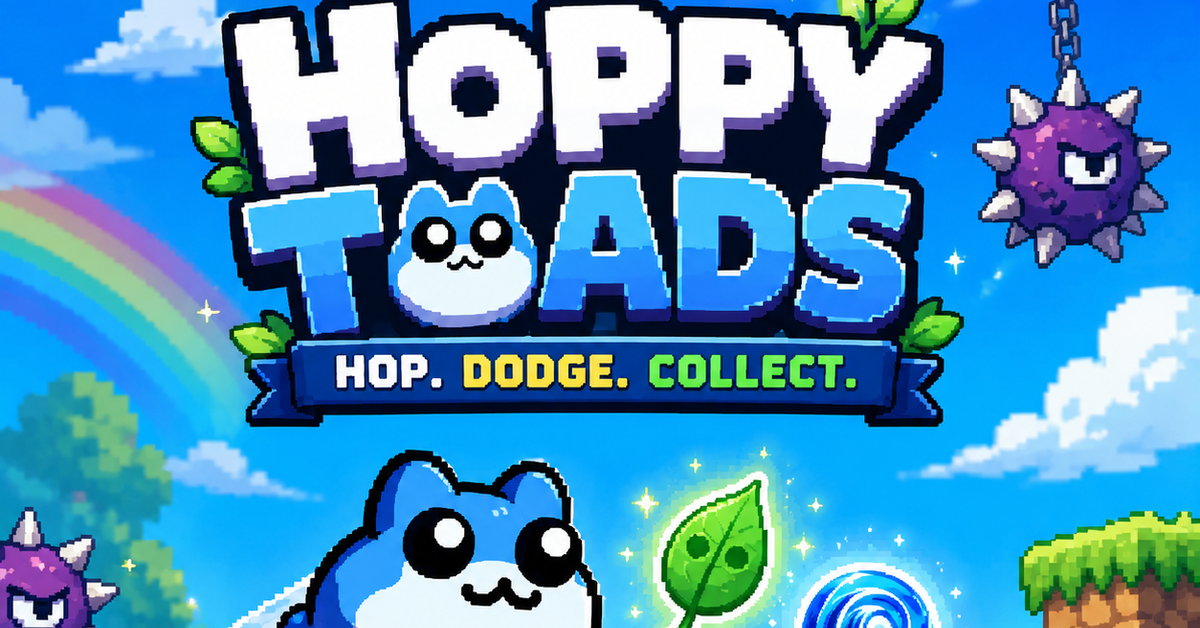
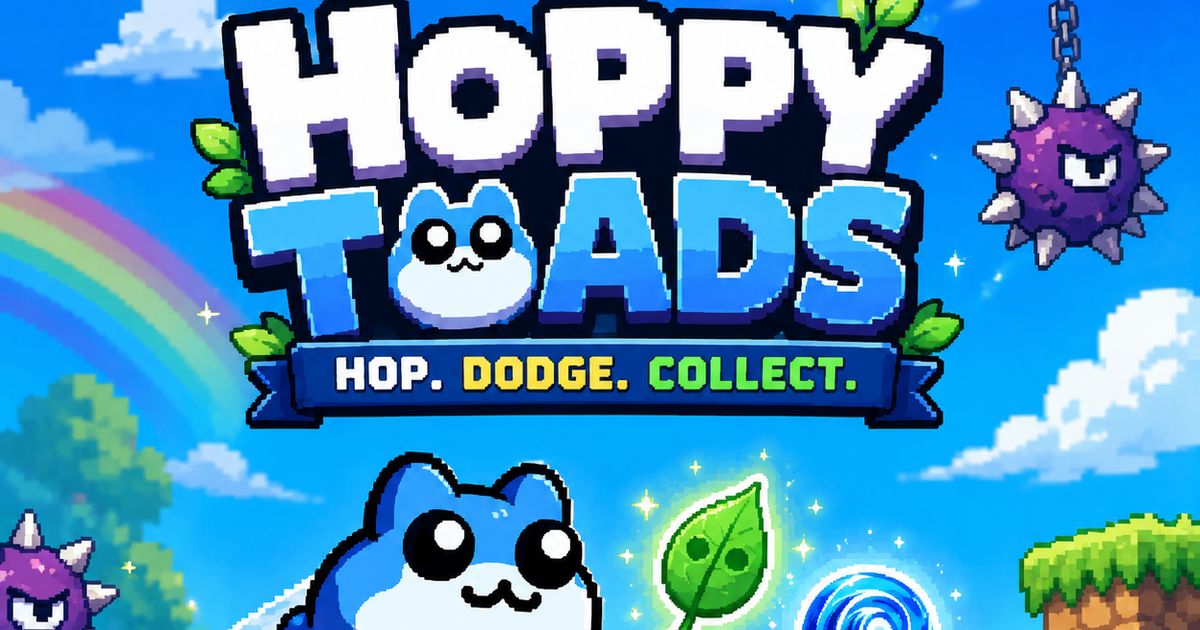
Align X card meta to working ToadVault/Pixel Pond recipe
Use one 1200x630 image (card.png) for both og:image and twitter:image, add
explicit og:image:width/height/type + og:site_name, and a ?v=2 cache-buster so X
re-crawls and renders the large card. fc:miniapp keeps hero.png (3:2) for Farcaster.

diff --git a/public/index.html b/public/index.html
@@ -5,17 +5,23 @@
 <meta name="viewport" content="width=device-width, initial-scale=1.0, maximum-scale=1.0, user-scalable=no">
 <title>Hoppy Toads — Tobyworld on Base</title>
 <meta name="description" content="Hop Toby through Tobyworld on Base. Grab relics, build combos, climb the leaderboard.">
-<!-- Open Graph / embed image (URLs use the https://hoppy-toads.vercel.app token rewritten by set-domain). -->
+<!-- Open Graph / embed image (URLs use the https://hoppy-toads.vercel.app token rewritten by set-domain).
+     Mirrors the proven ToadVault/Pixel Pond recipe: ONE 1200x630 image for both og + twitter,
+     with explicit dimensions and a ?v cache-buster so X re-crawls and renders the large card. -->
 <meta property="og:title" content="Hoppy Toads — Tobyworld on Base">
 <meta property="og:description" content="A Flappy-style arcade game themed around Tobyworld on Base.">
-<meta property="og:image" content="https://hoppy-toads.vercel.app/hero.png">
 <meta property="og:url" content="https://hoppy-toads.vercel.app/">
 <meta property="og:type" content="website">
+<meta property="og:site_name" content="Hoppy Toads">
+<meta property="og:image" content="https://hoppy-toads.vercel.app/card.png?v=2">
+<meta property="og:image:type" content="image/png">
+<meta property="og:image:width" content="1200">
+<meta property="og:image:height" content="630">
 <!-- Twitter / X card (required for X to render the large image preview) -->
 <meta name="twitter:card" content="summary_large_image">
 <meta name="twitter:title" content="Hoppy Toads — Tobyworld on Base">
 <meta name="twitter:description" content="A Flappy-style arcade game themed around Tobyworld on Base.">
-<meta name="twitter:image" content="https://hoppy-toads.vercel.app/card.png">
+<meta name="twitter:image" content="https://hoppy-toads.vercel.app/card.png?v=2">
 <!-- Farcaster Mini App embed (preferred). The `https://hoppy-toads.vercel.app` token is rewritten by
      `npm run set-domain -- https://your-domain` after deploy. -->
 <meta name="fc:miniapp" content='{"version":"1","imageUrl":"https://hoppy-toads.vercel.app/hero.png","button":{"title":"Launch Hoppy Toads","action":{"type":"launch_miniapp","name":"Hoppy Toads","url":"https://hoppy-toads.vercel.app/","splashImageUrl":"https://hoppy-toads.vercel.app/splash.png","splashBackgroundColor":"#001a4d"}}}'>